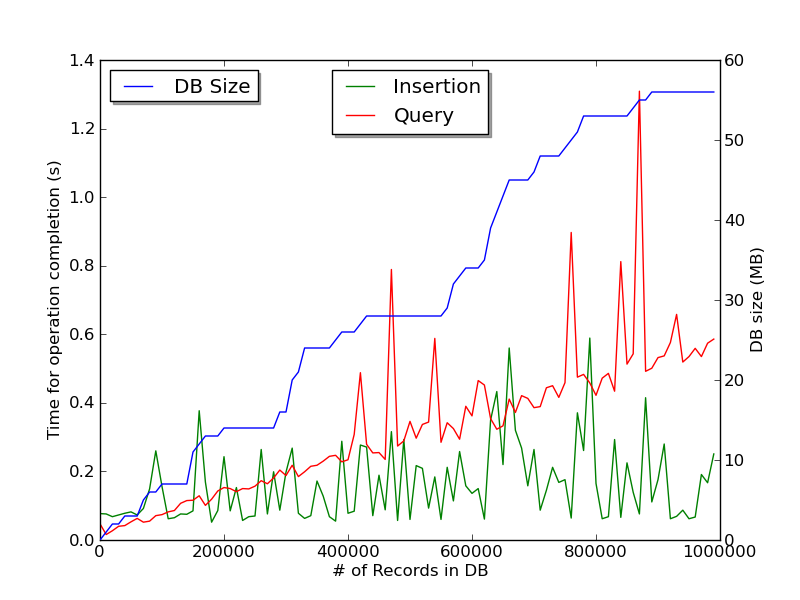
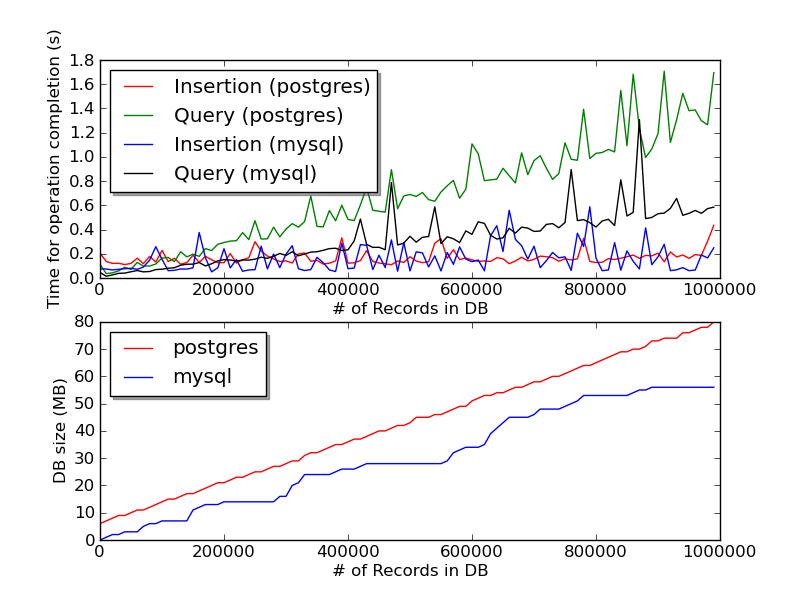
split graphs, now take in arbitrary number of logs

diff --git a/logparse/logparser.py b/logparse/logparser.py
@@ -3,65 +3,86 @@ import matplotlib.pyplot as plt
 from matplotlib.figure import Figure
 import numpy as np
 
-filename = sys.argv[1]
+#filename = sys.argv[1]
 
-log = file(filename)
-lines = log.readlines()
+DB_NAMES = ["mysql", "opentsdb", "postgres", "readingdb", "scidb"]
+formatiter = iter(['r-', 'g-', 'r-', 'b-', 
+                            'k-', 'b-'])
 
-while "Started Logging" not in lines[0]:
-    lines.pop(0)
 
-#get title
-title = lines.pop(0).split("Started Logging: ")[1].split(' at')[0]
 
-while "[ run-0 ]" not in lines[0]:
-    lines.pop(0)
+def parsedata(filearg):
+    log = file(filearg)
+    lines = log.readlines()
+    log.close()
 
-print(lines[0])
+    while "Started Logging" not in lines[0]:
+        lines.pop(0)
 
-points = []
+    #get title
+    title = lines.pop(0).split("Started Logging: ")[1].split(' at')[0]
 
-counter = 0
-while "finished" not in lines[0]:
-    insert = lines.pop(0).split(": ")[2]
-    query = lines.pop(0).split(": ")[2]
-    size = lines.pop(0).split("now ")[1].replace(" bytes.", "")
-    #print(insert)
-    #print(query)
-    #print(size)
-    points.append([counter, eval(insert), eval(query), eval(size)])
-    counter += 10000 #number of records before each round
+    while "[ run-0 ]" not in lines[0]:
+        lines.pop(0)
 
-graphthis = []
-for x in points:
-    addtog = []
-    addtog.append(x[0]) #number of points in db already
-    addtog.append(x[1][2]) #time to insert
-    addtog.append(x[2][2]) #time to query all
-    addtog.append(x[3]/1000000) #db size after completion, convert to MB
-    graphthis.append(addtog)
+    #print(lines[0])
 
-a = np.array(graphthis)
-print(a)
-print(a[:,0])
+    points = []
 
-x = a[:,0]
-y1 = a[:,1]
-y2 = a[:,2]
-y3 = a[:,3]
+    counter = 0
+    while "finished" not in lines[0]:
+        insert = lines.pop(0).split(": ")[2]
+        query = lines.pop(0).split(": ")[2]
+        size = lines.pop(0).split("now ")[1].replace(" bytes.", "")
+        points.append([counter, eval(insert), eval(query), eval(size)])
+        counter += 10000 #number of records before each round
+
+    graphthis = []
+    for x in points:
+        addtog = []
+        addtog.append(x[0]) #number of points in db already
+        addtog.append(x[1][2]) #time to insert
+        addtog.append(x[2][2]) #time to query all
+        addtog.append(x[3]/1000000) #db size after completion, convert to MB
+        graphthis.append(addtog)
+
+    a = np.array(graphthis)
+
+    for name in DB_NAMES:
+        if name in filearg:
+            a = (name, a)
+
+
+    return a
+
+db_arrays = []
+for x in sys.argv[1:]:
+    db_arrays.append(parsedata(x))
 
 fig = plt.figure()
-ax1 = fig.add_subplot(111)
-plt.plot(x, y1, 'g-', x, y2, 'r-')
+ax1 = fig.add_subplot(211)
+ax2 = fig.add_subplot(212)
 ax1.set_xlabel('# of Records in DB')
 ax1.set_ylabel('Time for operation completion (s)')
-
-ax2 = ax1.twinx()
-ax2.plot(x, y3, 'b-')
+ax2.set_xlabel('# of Records in DB')
 ax2.set_ylabel('DB size (MB)')
 
-leg = ax1.legend(('Insertion', 'Query'),
-           'upper center', shadow=True)
-leg2 = ax2.legend(('DB Size',), 'upper left', shadow=True)
+legend1 = ()
+legend2 = ()
+
+for a in db_arrays:
+    name = a[0]
+    a = a[1]
+    x = a[:,0]
+    y1 = a[:,1]
+    y2 = a[:,2]
+    y3 = a[:,3]
+    ax1.plot(x, y1, formatiter.next(), x, y2, formatiter.next())
+    ax2.plot(x, y3, formatiter.next())
+    legend1 += ('Insertion (' + name + ')', 'Query (' + name + ')')
+    legend2 += (name,)
+
+leg = ax1.legend(legend1, 'upper left', shadow=True)
+leg2 = ax2.legend(legend2, 'upper left', shadow=True)
 
 plt.savefig('test.png')
